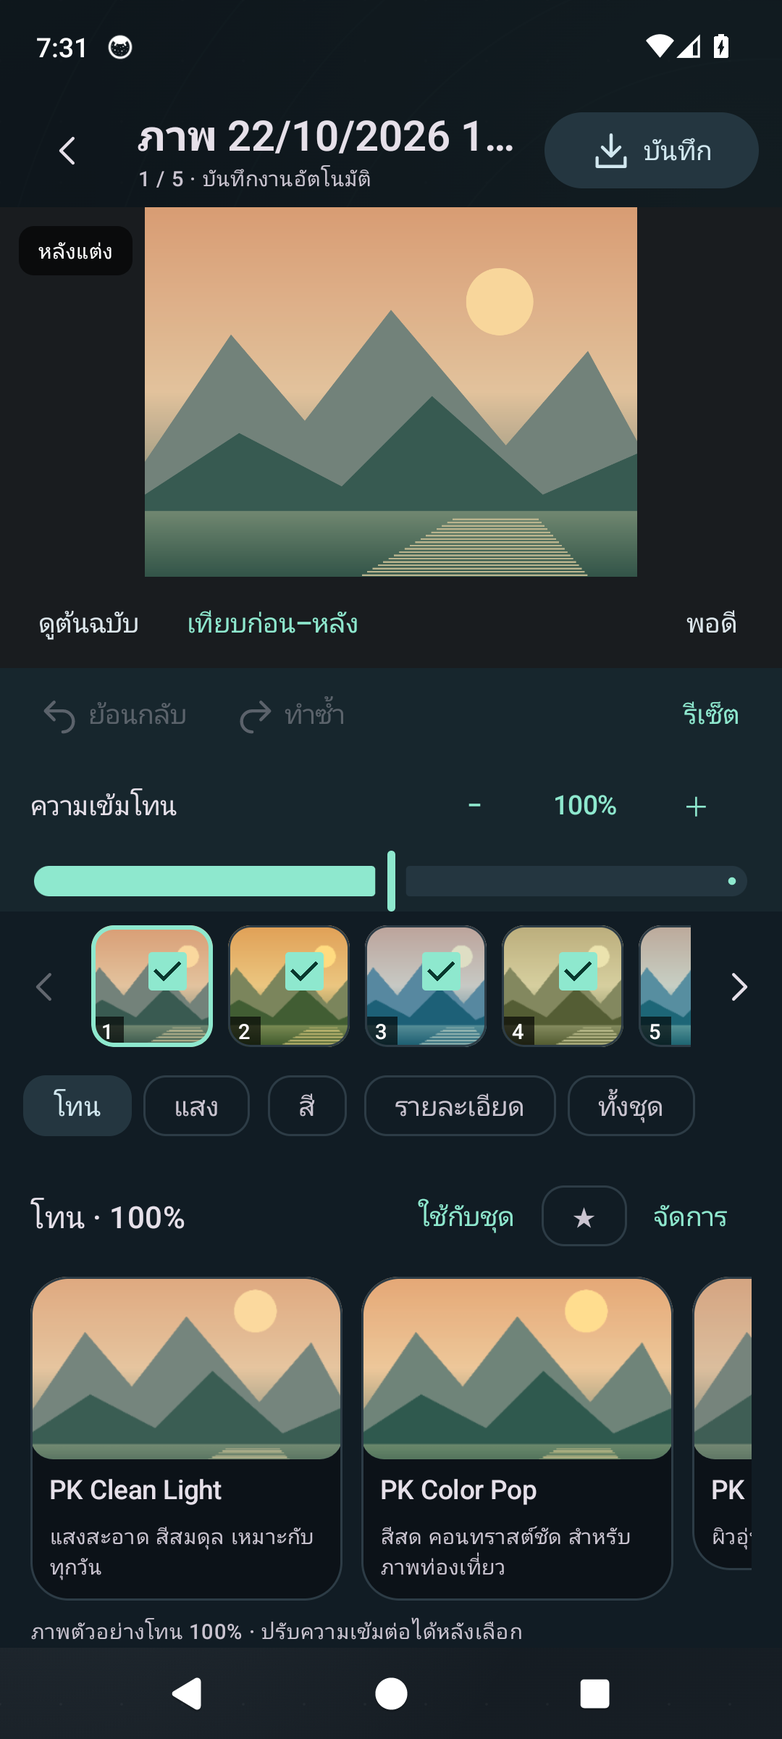
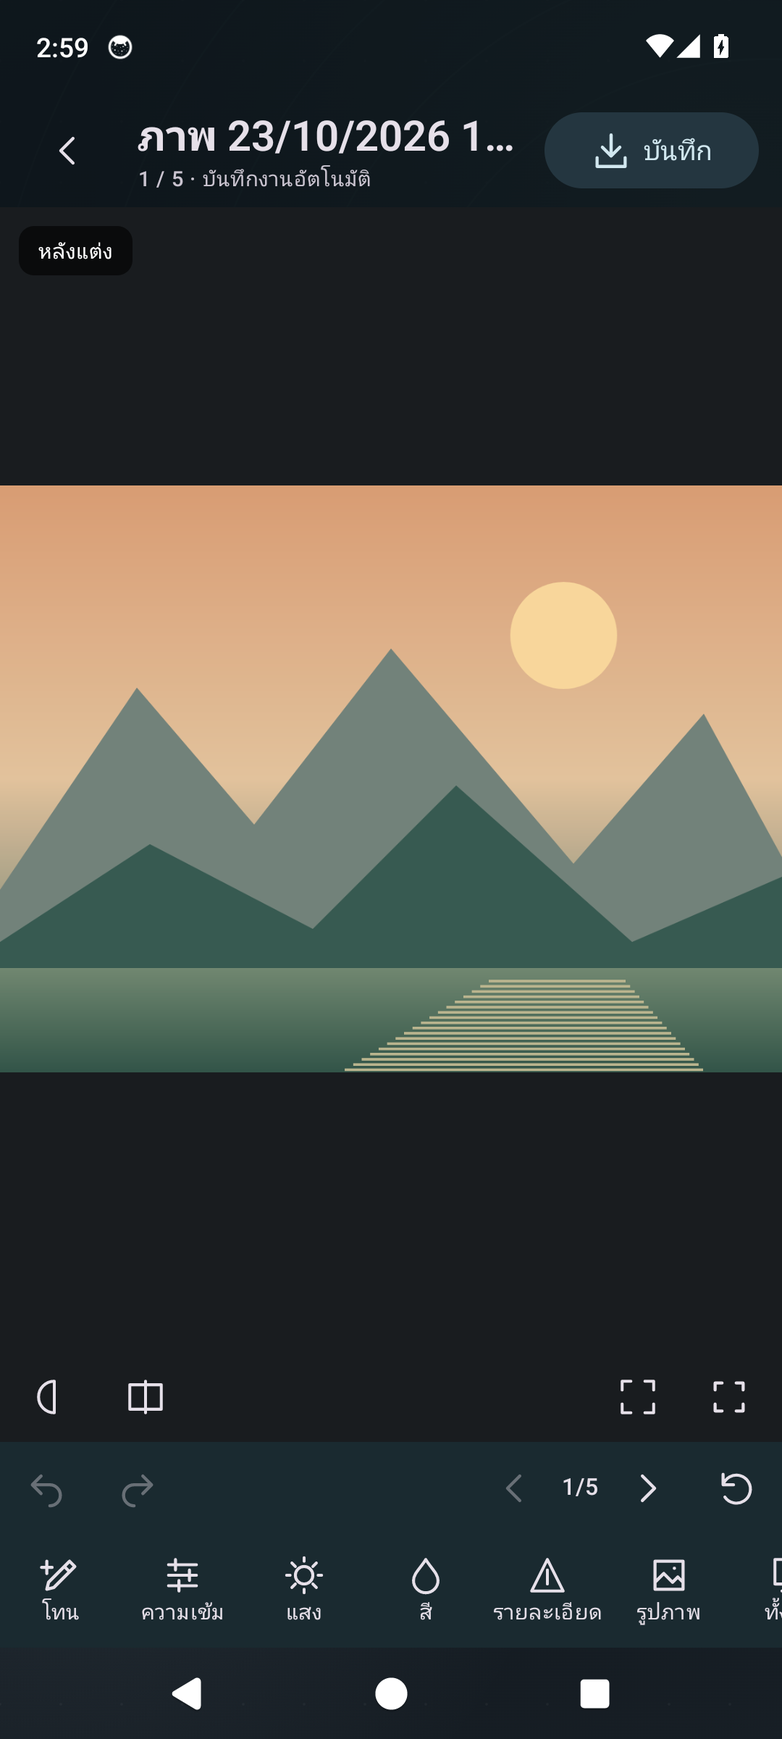
Release 0.5.1 photo-first editor and gesture navigation

diff --git a/docs/index.html b/docs/index.html
@@ -1,12 +1,12 @@
 <!doctype html>
 <html lang="th"><head><meta charset="utf-8"><meta name="viewport" content="width=device-width,initial-scale=1"><meta name="theme-color" content="#101916"><meta name="description" content="PK PHOTO EDITOR โปรแกรมแต่งภาพบน Android 14 ขึ้นไป ปรับโทน แสง สี และจัดการภาพเป็นชุดบนเครื่องของคุณ"><title>PK PHOTO EDITOR — Make it your light.</title><link rel="icon" href="assets/pk-logo.svg" type="image/svg+xml"><link rel="preload" href="assets/NotoSansThai.ttf" as="font" type="font/ttf" crossorigin><link rel="stylesheet" href="style.css"></head>
 <body><a class="skip" href="#main">ข้ามไปเนื้อหา</a><header><a class="brand" href="#" aria-label="PK PHOTO EDITOR หน้าแรก"><img class="brand-symbol" src="assets/pk-logo.svg" width="56" height="56" alt="โลโก้ PK PHOTO EDITOR"><span>PK PHOTO<br>EDITOR</span></a><nav aria-label="เมนูหลัก"><a href="#studio">สตูดิโอ</a><a href="#features">เครื่องมือ</a><a href="#install">ติดตั้ง</a><a class="nav-download" href="https://github.com/hertzscream/PK-PHOTO-EDITOR/releases/latest">ดาวน์โหลด ↗</a></nav></header>
-<main id="main"><section class="hero"><div class="hero-copy"><p class="eyebrow"><span class="dot"></span> YOUR POCKET PHOTO STUDIO</p><h1>แสงของคุณ<br>ในแบบ<span class="serif">ของคุณ.</span></h1><p class="lead">เก็บบรรยากาศที่คุณรู้สึกไว้ในทุกภาพ<br>แต่งแสง ปรับสี คุมโทน ได้อย่างอิสระบน Android</p><div class="actions"><a class="button primary" href="https://github.com/hertzscream/PK-PHOTO-EDITOR/releases/latest/download/PK-PHOTO-EDITOR.apk">ดาวน์โหลด APK <span>↓</span></a><a class="text-link" href="#download-qr">สแกน QR Code ↗</a><a class="text-link" href="#studio">ชมหน้าจอจริง ↗</a></div><p class="meta">ANDROID 14+ <span>·</span> v0.5.0 รุ่นทดสอบ <span>·</span> ประมวลผลภาพบนเครื่อง</p></div><div class="hero-art"><div class="orb"></div><div class="phone"><div class="phone-top">PK PHOTO EDITOR <span>●</span></div><img src="assets/editor.png" width="450" height="1000" alt="หน้าจอแต่งภาพจริงของ PK PHOTO EDITOR" fetchpriority="high"><div class="phone-bottom"></div></div><div class="floating-note"><span>✦</span><div>YOUR NEXT EDIT<br><strong>เริ่มจากแสงที่ใช่</strong></div></div><span class="vertical-caption">LIGHT / COLOR / YOUR POINT OF VIEW</span></div></section>
+<main id="main"><section class="hero"><div class="hero-copy"><p class="eyebrow"><span class="dot"></span> YOUR POCKET PHOTO STUDIO</p><h1>แสงของคุณ<br>ในแบบ<span class="serif">ของคุณ.</span></h1><p class="lead">เก็บบรรยากาศที่คุณรู้สึกไว้ในทุกภาพ<br>แต่งแสง ปรับสี คุมโทน ได้อย่างอิสระบน Android</p><div class="actions"><a class="button primary" href="https://github.com/hertzscream/PK-PHOTO-EDITOR/releases/latest/download/PK-PHOTO-EDITOR.apk">ดาวน์โหลด APK <span>↓</span></a><a class="text-link" href="#download-qr">สแกน QR Code ↗</a><a class="text-link" href="#studio">ชมหน้าจอจริง ↗</a></div><p class="meta">ANDROID 14+ <span>·</span> v0.5.1 รุ่นทดสอบ <span>·</span> ประมวลผลภาพบนเครื่อง</p></div><div class="hero-art"><div class="orb"></div><div class="phone"><div class="phone-top">PK PHOTO EDITOR <span>●</span></div><img src="assets/editor.png" width="450" height="1000" alt="หน้าจอแต่งภาพจริงของ PK PHOTO EDITOR" fetchpriority="high"><div class="phone-bottom"></div></div><div class="floating-note"><span>✦</span><div>YOUR NEXT EDIT<br><strong>เริ่มจากแสงที่ใช่</strong></div></div><span class="vertical-caption">LIGHT / COLOR / YOUR POINT OF VIEW</span></div></section>
 <div class="ribbon"><span>LOCAL FIRST</span><span>แสง • สี • รายละเอียด</span><span>UNDO / REDO</span><span>ANDROID 14+</span></div>
-<section class="studio section" id="studio"><div class="section-heading"><p class="eyebrow">01 / THE STUDIO</p><h2>ทุกการปรับ<br><span class="muted">เห็นความเปลี่ยนแปลง.</span></h2><p>เลือกรูปแล้วเข้าแต่งได้ทันที มีภาพตัวอย่างอยู่ตรงหน้า เปรียบเทียบต้นฉบับ ย้อนกลับ และทำซ้ำได้โดยไม่แก้ไฟล์ต้นฉบับ</p></div><div class="screens"><figure><img src="assets/projects.png" alt="โปรเจกต์แยกชุดภาพและสูตรแต่ง" loading="lazy" width="450" height="1000"><figcaption><span>01</span> แยกงานเป็นโปรเจกต์</figcaption></figure><figure class="featured"><img src="assets/editor.png" alt="ตัวอย่างภาพ เครื่องมือปรับโทน และปุ่มย้อนกลับ" loading="lazy" width="450" height="1000"><figcaption><span>02</span> เครื่องมืออยู่ในมือคุณ</figcaption></figure><figure><img src="assets/tones.png" alt="หน้าจัดการโทนพร้อมภาพตัวอย่างที่ประมวลผลจริง" loading="lazy" width="450" height="1000"><figcaption><span>03</span> เห็นโทนก่อนเลือกใช้</figcaption></figure></div><p class="caption">ภาพหน้าจอจากแอปจริง มีภาพสาธิต AI สำหรับเทียบโทน ไม่มีภาพส่วนตัวของผู้ใช้</p></section>
+<section class="studio section" id="studio"><div class="section-heading"><p class="eyebrow">01 / THE STUDIO</p><h2>ทุกการปรับ<br><span class="muted">เห็นความเปลี่ยนแปลง.</span></h2><p>เลือกรูปแล้วเข้าแต่งได้ทันที ภาพกว้างเต็มจอ แตะดูเต็มจอ ปัดเปลี่ยนรูป และเปิดเครื่องมือเมื่อใช้ เปรียบเทียบต้นฉบับ ย้อนกลับ และทำซ้ำได้โดยไม่แก้ไฟล์ต้นฉบับ</p></div><div class="screens"><figure><img src="assets/projects.png" alt="โปรเจกต์แยกชุดภาพและสูตรแต่ง" loading="lazy" width="450" height="1000"><figcaption><span>01</span> แยกงานเป็นโปรเจกต์</figcaption></figure><figure class="featured"><img src="assets/editor.png" alt="ตัวอย่างภาพ เครื่องมือปรับโทน และปุ่มย้อนกลับ" loading="lazy" width="450" height="1000"><figcaption><span>02</span> ภาพกว้าง เครื่องมือกระชับ</figcaption></figure><figure><img src="assets/tones.png" alt="หน้าจัดการโทนพร้อมภาพตัวอย่างที่ประมวลผลจริง" loading="lazy" width="450" height="1000"><figcaption><span>03</span> เห็นโทนก่อนเลือกใช้</figcaption></figure></div><p class="caption">ภาพหน้าจอจากแอปจริง มีภาพสาธิต AI สำหรับเทียบโทน ไม่มีภาพส่วนตัวของผู้ใช้</p></section>
 <section class="features section" id="features"><p class="eyebrow">02 / CREATIVE CONTROL</p><div class="feature-heading"><h2>น้อยขั้นตอน<br><span class="serif">มากความเป็นคุณ.</span></h2><p>จากโปรเจกต์เดียวถึงหลายชุด<br>ทำงานต่อได้ในจังหวะของคุณ</p></div><div class="feature-grid"><article><span class="feature-icon">◐</span><h3>คุมแสงและสี</h3><p>โทนมาตรฐาน 12 แบบ พร้อมภาพสาธิตเดียวกันเพื่อเทียบสี ปรับความเข้ม 0–200% ได้ตามใจ</p><a class="text-link" href="assets/tone-collection-050.jpg">ดูตัวอย่าง 12 โทน ↗</a></article><article><span class="feature-icon">↶</span><h3>ลองได้อย่างอิสระ</h3><p>Undo / Redo แยกแต่ละรูป ลบงานเข้าถังขยะแล้วกู้คืนได้ก่อนสั่งลบถาวร</p></article><article><span class="feature-icon">▧</span><h3>ภาพเป็นชุดก็สะดวก</h3><p>เห็นภาพย่อในแต่ละโปรเจกต์ เลือกใช้โทนกับบางภาพหรือทั้งชุด แล้วส่งออก JPEG</p></article><article><span class="feature-icon">⌁</span><h3>ภาพอยู่บนเครื่อง</h3><p>การแต่งภาพทำงานแบบออฟไลน์ เชื่อมต่อ GitHub เมื่อคุณกดตรวจสอบหรือดาวน์โหลดอัปเดต</p></article></div></section>
 <section class="install section" id="install"><div><p class="eyebrow">03 / GET STARTED</p><h2>สตูดิโอของคุณ<br><span class="serif">พร้อมเปิดแล้ว.</span></h2><p class="lead">สำหรับ Android 14 ขึ้นไป<br>ดาวน์โหลดโดยตรงจาก GitHub Releases</p><a class="button primary" href="https://github.com/hertzscream/PK-PHOTO-EDITOR/releases/latest/download/PK-PHOTO-EDITOR.apk">ดาวน์โหลด PK PHOTO EDITOR ↓</a><a class="release-link" href="https://github.com/hertzscream/PK-PHOTO-EDITOR/releases/latest">รายละเอียดเวอร์ชันและ SHA-256 ↗</a><div class="download-qr" id="download-qr" role="group" aria-labelledby="qr-title"><a class="qr-image-link" href="https://github.com/hertzscream/PK-PHOTO-EDITOR/releases/latest/download/PK-PHOTO-EDITOR.apk" aria-label="ดาวน์โหลด APK รุ่นล่าสุดของ PK PHOTO EDITOR"><img src="assets/download-qr.png" width="490" height="490" alt="QR Code สำหรับดาวน์โหลด PK PHOTO EDITOR รุ่นล่าสุด" loading="lazy"></a><div class="qr-copy"><p class="eyebrow">SCAN TO DOWNLOAD</p><h3 id="qr-title">สแกนแล้วโหลดบนมือถือ</h3><p>เปิดกล้องมือถือ Android แล้วสแกน QR Code เพื่อดาวน์โหลด APK รุ่นล่าสุด</p><a class="qr-save" href="assets/download-qr.png" download="PK-PHOTO-EDITOR-download-QR.png">บันทึก QR Code ↓</a><p class="qr-note">Android 14 ขึ้นไป · ดาวน์โหลดจาก GitHub Releases</p></div></div></div><ol><li><span>01</span><div><h3>ดาวน์โหลดและเปิด APK</h3><p>อนุญาตการติดตั้งจากแหล่งนี้ให้กับเบราว์เซอร์เมื่อ Android ขอ แล้วตรวจชื่อแอปก่อนติดตั้ง</p></div></li><li><span>02</span><div><h3>เลือกรูป เริ่มสร้างบรรยากาศ</h3><p>เลือกภาพผ่าน Photo Picker ต้นฉบับจะถูกคัดลอกไว้ในพื้นที่ส่วนตัวของแอป</p></div></li><li><span>03</span><div><h3>อัปเดตจากในแอป</h3><p>ไปที่ ตั้งค่า → ตรวจสอบอัปเดต แอปตรวจสอบไฟล์และลายเซ็นก่อนเปิดหน้าติดตั้งของ Android</p></div></li></ol></section>
-<section class="faq section"><p class="eyebrow">GOOD TO KNOW</p><details><summary>รุ่นนี้เป็นเวอร์ชันทดสอบหรือไม่?</summary><p>ใช่ รุ่น 0.5.0 เป็น APK สำหรับทดสอบ ใช้ debug signing เดิมเพื่ออัปเดตจากรุ่นก่อนหน้า ควรสำรองภาพที่ส่งออกแล้วก่อนเปลี่ยนเครื่องหรือถอนการติดตั้ง</p></details><details><summary>มีการส่งรูปขึ้นเซิร์ฟเวอร์หรือไม่?</summary><p>ไม่มีการอัปโหลดรูปเพื่อแต่งภาพ รูปและสูตรแต่งจัดเก็บบนเครื่อง การตรวจสอบอัปเดตติดต่อ GitHub เพื่อรับข้อมูลเวอร์ชันและ APK เท่านั้น</p></details><details><summary>ใช้กับ RAW หรือ HDR ได้หรือไม่?</summary><p>ระบบแต่งและส่งออกปัจจุบันเป็น SDR JPEG ไม่ใช่กระบวนการพัฒนา RAW หรือส่งออก HDR</p></details><details><summary>แจ้งปัญหาหรือเสนอเครื่องมือได้ที่ไหน?</summary><p><a href="https://github.com/hertzscream/PK-PHOTO-EDITOR/issues">เปิด Issue บน GitHub</a> พร้อมรุ่น Android และขั้นตอนที่พบปัญหา โปรดอย่าแนบภาพส่วนตัวหรือข้อมูลลับ</p></details></section></main>
+<section class="faq section"><p class="eyebrow">GOOD TO KNOW</p><details><summary>รุ่นนี้เป็นเวอร์ชันทดสอบหรือไม่?</summary><p>ใช่ รุ่น 0.5.1 เป็น APK สำหรับทดสอบ ใช้ debug signing เดิมเพื่ออัปเดตจากรุ่นก่อนหน้า ควรสำรองภาพที่ส่งออกแล้วก่อนเปลี่ยนเครื่องหรือถอนการติดตั้ง</p></details><details><summary>มีการส่งรูปขึ้นเซิร์ฟเวอร์หรือไม่?</summary><p>ไม่มีการอัปโหลดรูปเพื่อแต่งภาพ รูปและสูตรแต่งจัดเก็บบนเครื่อง การตรวจสอบอัปเดตติดต่อ GitHub เพื่อรับข้อมูลเวอร์ชันและ APK เท่านั้น</p></details><details><summary>ใช้กับ RAW หรือ HDR ได้หรือไม่?</summary><p>ระบบแต่งและส่งออกปัจจุบันเป็น SDR JPEG ไม่ใช่กระบวนการพัฒนา RAW หรือส่งออก HDR</p></details><details><summary>แจ้งปัญหาหรือเสนอเครื่องมือได้ที่ไหน?</summary><p><a href="https://github.com/hertzscream/PK-PHOTO-EDITOR/issues">เปิด Issue บน GitHub</a> พร้อมรุ่น Android และขั้นตอนที่พบปัญหา โปรดอย่าแนบภาพส่วนตัวหรือข้อมูลลับ</p></details></section></main>
 <footer><a class="brand" href="#">PK PHOTO EDITOR <span>✦</span></a><div class="developer-credit"><p>Make it your light.</p><span>พัฒนาโดย prasert sungthonglang</span></div><div><a href="privacy.html">ความเป็นส่วนตัว</a><a href="https://github.com/hertzscream/PK-PHOTO-EDITOR">GitHub ↗</a></div></footer></body></html>
 
 

diff --git a/RELEASE_NOTES.md b/RELEASE_NOTES.md
@@ -1,13 +1,12 @@
-PK PHOTO EDITOR 0.5.0 — ถังขยะและคอลเลกชันโทนใหม่
+PK PHOTO EDITOR 0.5.1 — หน้าแต่งภาพพื้นที่กว้าง
 
-- ลบโปรเจกต์และเลือกลบภาพในโปรเจกต์ได้ โดยย้ายเข้าถังขยะก่อน
-- ถังขยะรวมโปรเจกต์ รูป และโทน กู้คืนได้ ไม่มีการล้างอัตโนมัติ
-- ลบถาวรมีคำยืนยัน ลบเฉพาะสำเนา/ข้อมูลในแอป ไม่แตะต้นฉบับหรือ JPEG ส่งออก
-- โปรเจกต์ที่ลบจะเก็บรูปและสูตรไว้ เมื่อลบรูปแยกก่อนลบโปรเจกต์ รูปนั้นยังอยู่ในถังขยะหลังคืนโปรเจกต์
-- หน้าจัดการโทนใช้ภาพสาธิต AI ใหม่ภาพเดียวกันทุกโทน ไม่ใช้รูปในโปรเจกต์
-- หน้าเลือกโทนระหว่างแต่งยังใช้ภาพที่เปิดอยู่ตามเดิม
-- โทนมาตรฐาน 12 แบบ: 10 สูตรใหม่ + DSLR Café และ DSLR Sea เดิม
-- เก็บสูตรภาพเก่าและโทนส่วนตัว โทนเก่าที่เคยปรับชื่อ/สูตรหรือเก็บในถังขยะจะย้ายเป็นโทนส่วนตัว
+- ภาพใช้ความกว้างเต็มจอ เปิดหน้าแต่งด้วยพื้นที่ภาพขนาดใหญ่
+- เครื่องมือไอคอนขนาดกระชับ เปิด–ปิดแผงโทน แสง สี รายละเอียด ความเข้ม และรูปในชุดได้
+- ปัดซ้ายไปภาพถัดไป ปัดขวากลับภาพก่อนหน้า เมื่อภาพอยู่ขนาดพอดีจอ
+- ซูมสองนิ้วและลากดูรายละเอียดได้ เมื่อซูมจะไม่ปัดเปลี่ยนภาพ
+- แตะภาพเพื่อเข้า/ออกเต็มจอ หรือใช้ปุ่มเต็มจอและปุ่มกลับ
+- คงต้นฉบับ กดค้างดูต้นฉบับ เทียบก่อน–หลัง Undo/Redo และการใช้โทนหลายภาพ
+- ย้ายข้อความแจ้งในหน้าแต่งไปด้านบนเพื่อไม่บังเครื่องมือ
 
-Android 14 ขึ้นไป versionCode 9 ใช้ลายเซ็น debug เดิม ติดตั้งทับได้โดยไม่ถอนแอป ย้ายฐานข้อมูลโดยไม่ล้างงาน
-รุ่นทดสอบ ถังขยะไม่ใช่การสำรองข้อมูล การถอนแอปหรือล้างข้อมูลยังทำให้งานในแอปหาย
+Android 14 ขึ้นไป versionCode 10 ใช้ลายเซ็น debug เดิม ติดตั้งทับได้โดยไม่ถอนแอป
+รุ่นทดสอบ ไม่มีการเปลี่ยนสูตรแต่งภาพ ฐานข้อมูล หรือไฟล์ต้นฉบับ

diff --git a/TEST_REPORT.md b/TEST_REPORT.md
@@ -1,0 +1,17 @@
+# PK PHOTO EDITOR 0.5.1 — editor validation
+
+2026-10-23 Asia/Bangkok. versionCode10, minSdk34, target36. Same application ID and debug certificate. No database, recipe, LUT or source image changes.
+
+- assembleDebug / assembleDebugAndroidTest / testDebugUnitTest / lintDebug: PASS.
+- JVM: 25 tests, 0 failures.
+- Android14 API34: 27 tests, 0 failures, 0 skipped; 80.145s.
+- Android16 API36: 27 tests, 0 failures, 0 skipped; 84.441s.
+- Lint: 0 errors, 20 existing warnings.
+
+WorkflowTest now verifies full-width preview and more than65% of available editor height with tools closed; left/right swipes switch photos; tapping enters/exits full-screen; preview grows while dock disappears; pinch and subsequent pan retain active photo; Fit resets zoom to1; swiping works again; preset selection, per-photo undo/redo, manual sliders, tool closure and return to library work. Tool panels keep the image visible, strength and filmstrip use shorter panels, all dock icons have labels and content descriptions. Tone selection, scope application and preview workflow tests explicitly open the new tool panels.
+
+An import snackbar originally intercepted bottom controls. Editor messages now appear at the top, and the final tests pass with import notifications present. Tests wait for Compose to apply panel closure before dispatching Back. No test disables the snackbar or bypasses tool clicks.
+
+Updater integration uses owned code11 fixtures with matching and deliberately different signers; both tests pass without skips. Other project/trash/migration/export/color/preview tests remain unchanged and pass. No user photos enter tests, screenshots, website or source package. Screenshots use the existing synthetic illustration. Evidence: dist/validation/0.5.1/.
+
+Emulator touch validation does not replace physical-device, TalkBack, rotation and foldable QA. APK remains a debug-signed testing build. Previous release validation retained in TEST_REPORT_0.5.0.md.

diff --git a/README.md b/README.md
@@ -5,7 +5,7 @@ Official website and Android APK releases for PK PHOTO EDITOR.
 - Website: https://hertzscream.github.io/PK-PHOTO-EDITOR/
 - Download: https://github.com/hertzscream/PK-PHOTO-EDITOR/releases/latest
 - Android 14 or later (API 34+)
-- Current version: 0.5.0 (versionCode 9), testing build signed with the existing debug certificate.
+- Current version: 0.5.1 (versionCode 10), testing build signed with the existing debug certificate.
 
 ## ใช้งาน
 
@@ -47,3 +47,5 @@ Official website and Android APK releases for PK PHOTO EDITOR.
 
 0.5.0 เพิ่มถังขยะสำหรับโปรเจกต์ รูป และโทน พร้อมกู้คืน/ยืนยันลบถาวร และโทนมาตรฐาน12แบบ (10ใหม่+DSLR Café/Sea) หน้าจัดการใช้ภาพสาธิต AI เดียวกันทุกโทน
 
+
+0.5.1 ขยายพื้นที่ภาพในหน้าแต่ง ใช้เครื่องมือไอคอนกับแผงปรับแบบเปิด–ปิด ปัดซ้าย/ขวาเปลี่ยนรูปเมื่อพอดีจอ ซูมแล้วลากดูภาพ และแตะดูเต็มจอได้
